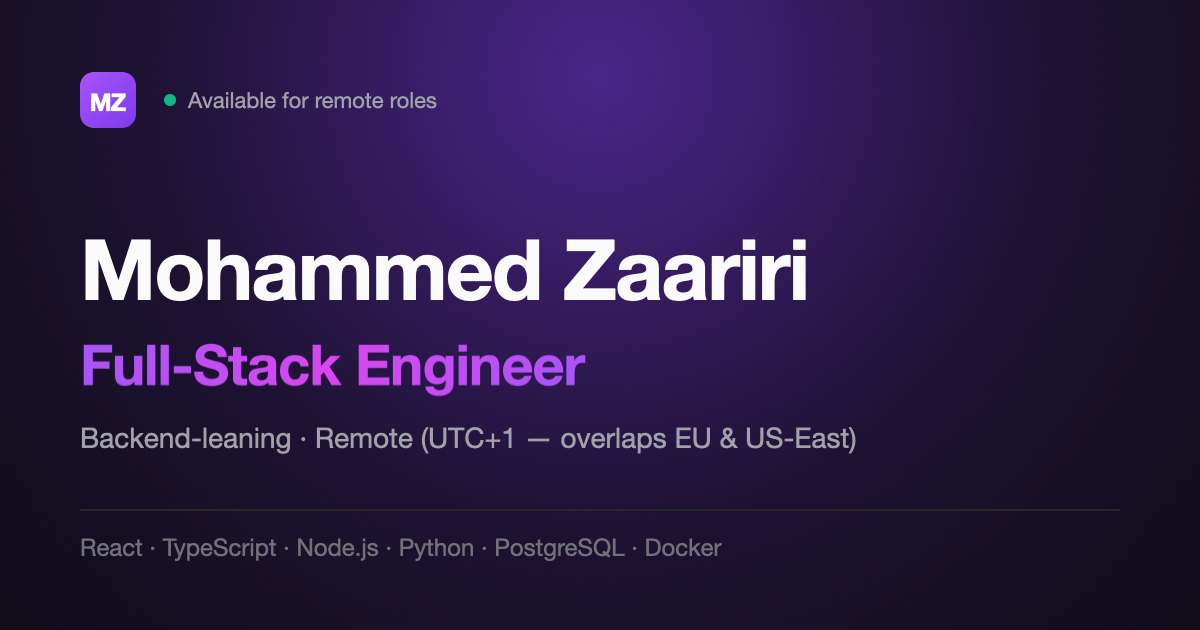
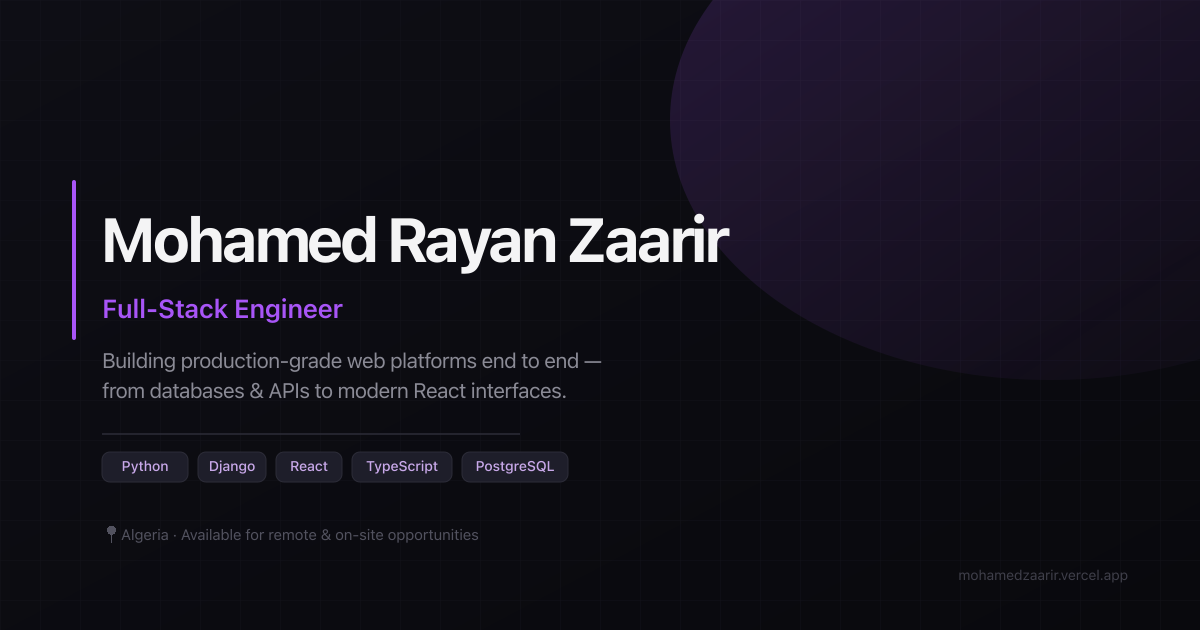
Add full SEO layer: robots, sitemap, og.png, JSON-LD schema, local keywords
- robots.txt pointing to sitemap
- sitemap.xml with all 9 URLs (home, projects list, 7 project detail pages)
- og.png regenerated (1200×630) with real name, title, stack chips, Algeria location
- index.html: enhanced description with Blida/Soumaa, meta keywords (FR+EN),
  meta robots, og:image:alt, og:locale, JSON-LD Person schema with address
- Page title updated to include · Algeria for local search signal

diff --git a/index.html b/index.html
@@ -6,9 +6,14 @@
     <meta name="viewport" content="width=device-width, initial-scale=1.0" />
     <meta
       name="description"
-      content="Mohamed Rayan Zaarir — full-stack engineer building production-grade web platforms end to end, from databases and APIs to modern React interfaces. Based in Algeria (UTC+1)."
+      content="Mohamed Rayan Zaarir — full-stack engineer based in Algeria (Blida · Soumaa). Building production-grade web platforms end to end, from databases and APIs to modern React interfaces. Available for remote and on-site opportunities."
     />
     <meta name="author" content="Mohamed Rayan Zaarir" />
+    <meta
+      name="keywords"
+      content="Mohamed Rayan Zaarir, développeur Algérie, développeur web Algérie, full-stack engineer Algeria, web developer Algeria, Django developer Algeria, React developer Algeria, Python developer Algeria, développeur Blida, développeur Soumaa, software engineer Algeria, ingénieur logiciel Algérie, backend developer Algeria, freelance developer Algeria, développeur freelance Algérie, programmeur Algérie, full stack developer Algeria"
+    />
+    <meta name="robots" content="index, follow" />
     <meta name="color-scheme" content="dark light" />
     <meta name="theme-color" media="(prefers-color-scheme: light)" content="#ffffff" />
     <meta name="theme-color" media="(prefers-color-scheme: dark)" content="#141414" />
@@ -21,20 +26,47 @@
     <meta property="og:title" content="Mohamed Rayan Zaarir — Full-Stack Engineer" />
     <meta
       property="og:description"
-      content="Full-stack engineer specializing in scalable backend architecture and modern web apps. Building production platforms end to end, based in Algeria."
+      content="Full-stack engineer based in Algeria — specializing in scalable backend architecture and modern web apps. Building production platforms end to end."
     />
     <meta property="og:image" content="https://mohamedzaarir.vercel.app/og.png" />
     <meta property="og:image:width" content="1200" />
     <meta property="og:image:height" content="630" />
+    <meta property="og:image:alt" content="Mohamed Rayan Zaarir — Full-Stack Engineer" />
+    <meta property="og:locale" content="en_US" />
     <meta name="twitter:card" content="summary_large_image" />
     <meta name="twitter:title" content="Mohamed Rayan Zaarir — Full-Stack Engineer" />
     <meta
       name="twitter:description"
-      content="Full-stack engineer specializing in scalable backend architecture and modern web apps. Building production platforms end to end, based in Algeria."
+      content="Full-stack engineer based in Algeria — specializing in scalable backend architecture and modern web apps. Building production platforms end to end."
     />
     <meta name="twitter:image" content="https://mohamedzaarir.vercel.app/og.png" />
 
-    <title>Mohamed Rayan Zaarir — Full-Stack Engineer</title>
+    <title>Mohamed Rayan Zaarir — Full-Stack Engineer · Algeria</title>
+
+    <!-- Structured data: Person schema -->
+    <script type="application/ld+json">
+    {
+      "@context": "https://schema.org",
+      "@type": "Person",
+      "name": "Mohamed Rayan Zaarir",
+      "url": "https://mohamedzaarir.vercel.app",
+      "jobTitle": "Full-Stack Engineer",
+      "description": "Full-stack engineer building production-grade web platforms end to end, from databases and APIs to modern React interfaces.",
+      "address": {
+        "@type": "PostalAddress",
+        "addressLocality": "Soumaa",
+        "addressRegion": "Blida",
+        "addressCountry": "DZ"
+      },
+      "knowsAbout": [
+        "Python", "Django", "Django REST Framework", "React", "TypeScript",
+        "PostgreSQL", "Redis", "Celery", "Docker", "Web Development",
+        "Backend Architecture", "Full-Stack Development", "REST APIs"
+      ],
+      "sameAs": []
+    }
+    </script>
+
     <!--
       No-flash theme bootstrap. Runs before React paints so the correct theme
       class is on <html> immediately. Order: saved choice → OS preference → dark.
